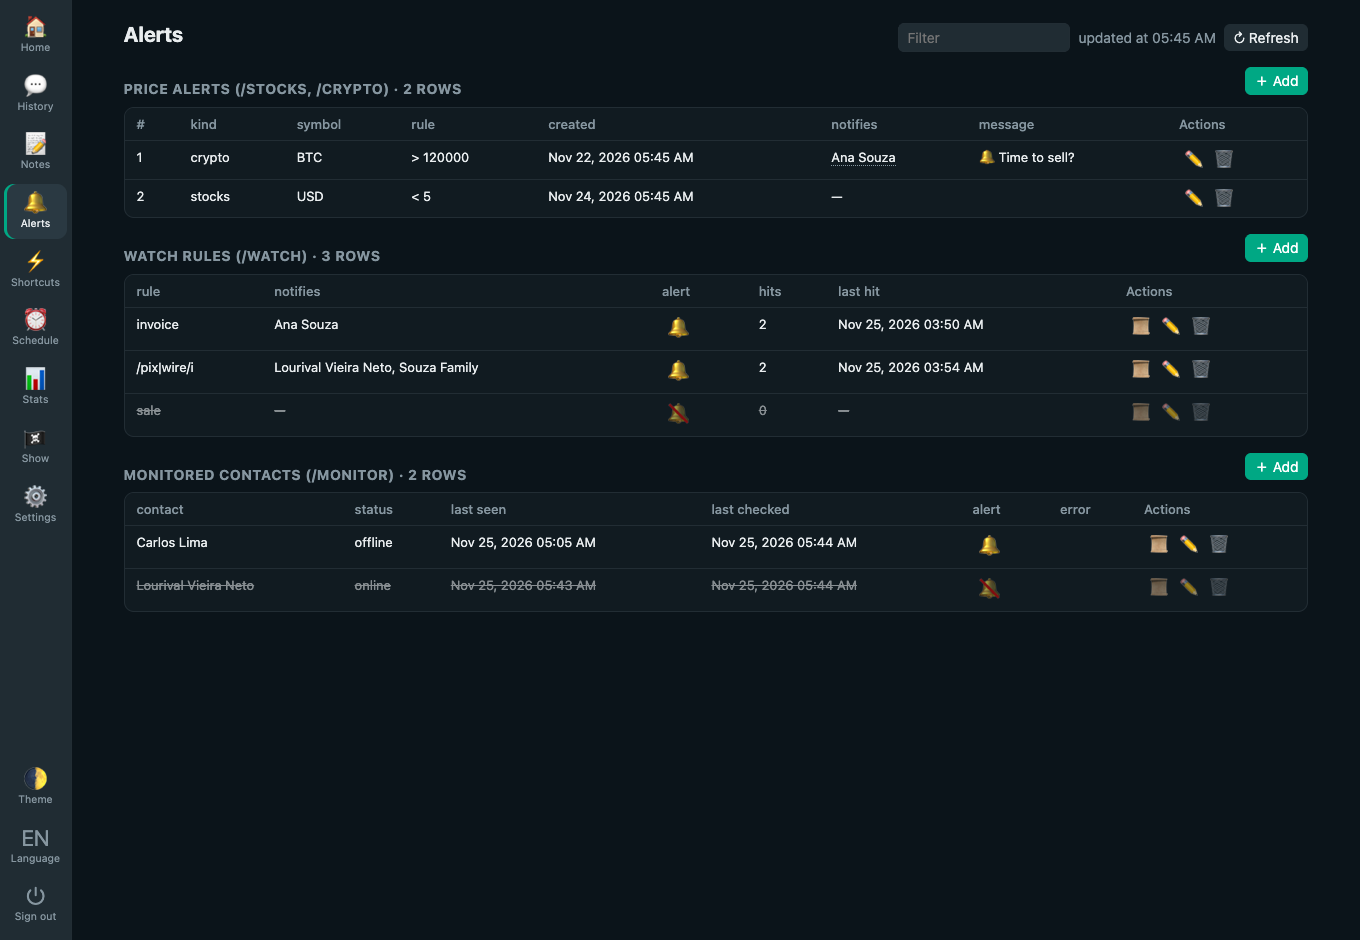
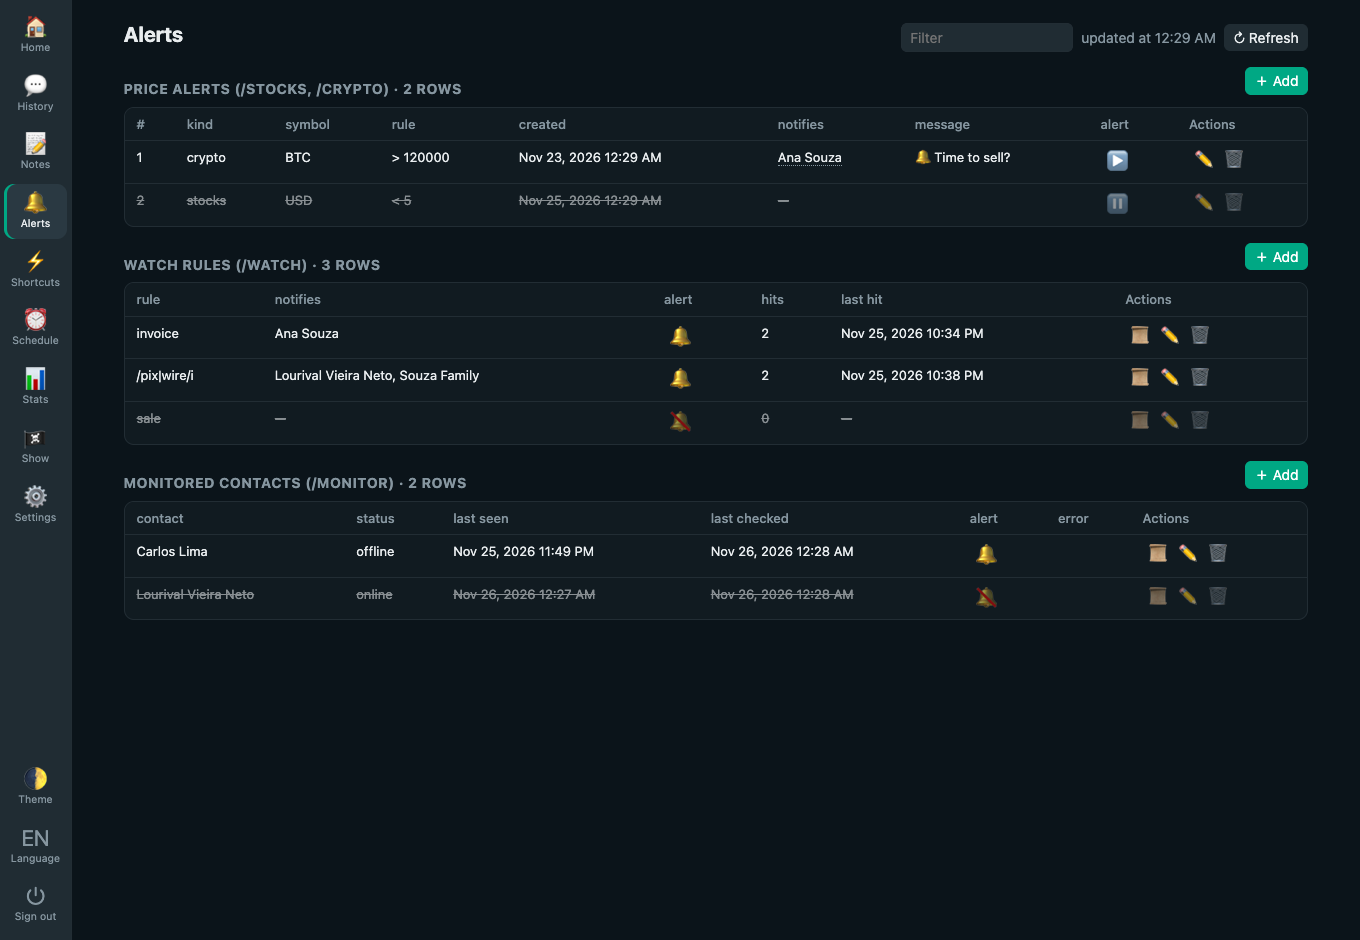
alerts: /stocks and /crypto -alert -pause|-resume, and ▶/⏸ in Web > Alerts
A paused alert stays in the list (⏸ pausado) but out of the check until -resume; in the web the
alert column toggles it and the row is struck through, like the schedule. Editing an alert in
the web keeps its pause (the edit is made again through the command).

diff --git a/src/web/manage.js b/src/web/manage.js
@@ -128,7 +128,7 @@ async function setPriceRecipients(id, people) {
 }
 
 // Changes an alert by making it again through the command (same checks: supported symbol, the price, "already met"),
-// keeping where it notifies and when it was created; if the new rule is refused, the old one comes back
+// keeping where it notifies, when it was created and the pause; if the new rule is refused, the old one comes back
 async function editPrice(body) {
     const old = await dbGet('SELECT * FROM price_alerts WHERE id = ?', [Number(body.id)]);
     if (!old) throw new ManageError('alert: not found');
@@ -136,14 +136,15 @@ async function editPrice(body) {
     const people = readRecipients(body.recipients);
     const rule = str(body.rule, 'rule', { max: 80 });
     const message = str(body.message, 'message', { max: 300, required: false }).replace(/\s+/g, ' ');
-    const columns = ['id', 'kind', 'symbol', 'op', 'target', 'price_at_creation', 'created_at', 'dest_id', 'dest_name', 'dest_is_group', 'dest_email', 'recipients', 'message'];
+    const columns = ['id', 'kind', 'symbol', 'op', 'target', 'price_at_creation', 'created_at', 'dest_id', 'dest_name', 'dest_is_group', 'dest_email', 'recipients', 'message', 'paused'];
     await dbRun('DELETE FROM price_alerts WHERE id = ?', [old.id]);
     const replies = [];
     await priceHandleAlert(kindKey, { msg: silentMsg(replies), args: `-alert ${rule}${message ? ` -msg ${message}` : ''}`, admin: true });
     const fresh = await dbGet('SELECT id FROM price_alerts WHERE kind = ? ORDER BY id DESC LIMIT 1', [kindKey]);
     if (fresh) {
-        await dbRun('UPDATE price_alerts SET created_at = ?, dest_id = ?, dest_name = ?, dest_is_group = ?, dest_email = ?, recipients = ? WHERE id = ?',
-            [old.created_at, old.dest_id, old.dest_name, old.dest_is_group, old.dest_email, old.recipients, fresh.id]);
+        // a paused alert stays paused after the edit
+        await dbRun('UPDATE price_alerts SET created_at = ?, dest_id = ?, dest_name = ?, dest_is_group = ?, dest_email = ?, recipients = ?, paused = ? WHERE id = ?',
+            [old.created_at, old.dest_id, old.dest_name, old.dest_is_group, old.dest_email, old.recipients, old.paused ?? 0, fresh.id]);
         if (people) await setPriceRecipients(fresh.id, people);
         return { ok: true, message: replies.join('\n') };
     }
@@ -362,6 +363,14 @@ async function deleteSchedule(body) {
     return { ok: true };
 }
 
+// ▶/⏸ of a price alert: the same as /stocks or /crypto -alert -pause / -resume
+async function pausePrice(body) {
+    const row = await dbGet('SELECT id FROM price_alerts WHERE id = ?', [Number(body.id)]);
+    if (!row) throw new ManageError('price: not found');
+    await dbRun('UPDATE price_alerts SET paused = 1 - COALESCE(paused, 0) WHERE id = ?', [row.id]);
+    return { ok: true };
+}
+
 async function pauseSchedule(body) {
     const row = await dbGet('SELECT id FROM schedules WHERE id = ?', [Number(body.id)]);
     if (!row) throw new ManageError('schedule: not found');
@@ -420,7 +429,7 @@ async function cleanCachePicked(body) {
 
 const HANDLERS = {
     alias: { add: saveAlias, edit: saveAlias, delete: deleteAlias },
-    price: { add: addPrice, edit: editPrice, delete: deletePrice },
+    price: { add: addPrice, edit: editPrice, delete: deletePrice, toggle: pausePrice },
     tag: { add: async (body, token) => noteResult(await webNotes.addTag(token, body)), edit: async (body, token) => noteResult(await webNotes.editTag(token, body)), copy: async (body, token) => noteResult(await webNotes.copyTag(token, body)), move: async (body, token) => noteResult(await webNotes.moveTag(token, body)), delete: async (body, token) => noteResult(await webNotes.deleteTag(token, body)) },
     note: { add: async (body, token) => noteResult(await webNotes.addNote(token, body)), edit: async (body, token) => noteResult(await webNotes.updateNote(token, body)), move: async (body, token) => noteResult(await webNotes.moveNote(token, body)), copy: async (body, token) => noteResult(await webNotes.copyNote(token, body)), delete: async (body, token) => noteResult(await webNotes.deleteNote(token, body.id)) },
     watch: { add: saveWatch, edit: saveWatch, delete: deleteWatch, toggle: toggleWatch },

diff --git a/src/priceAlerts.js b/src/priceAlerts.js
@@ -151,6 +151,30 @@ async function priceHandleAlert(kind, { msg, args, admin }) {
 
     const alerts = await listAlerts(kind);
 
+    // -pause / -resume <no....|all>: the same numbers as -rm; a paused alert stays in the list, out of the check
+    const pausing = opts.given.has('pause');
+    if (pausing || opts.given.has('resume')) {
+        const partsAlt = [pausing ? opts.opt.pause : opts.opt.resume, ...opts.argv].join(' ').toLowerCase()
+            .split(/[\s,]+/).filter(Boolean);
+        const numbers = partsAlt.includes('all') ? alerts.map((_, i) => String(i + 1)) : [...new Set(partsAlt)].sort((a, b) => a - b);
+        const missing = numbers.filter(n => !/^\d+$/.test(n) || !alerts[Number(n) - 1]);
+        if (!numbers.length || missing.length) {
+            await msg.reply(missing.length > 1
+                ? t('alerts.notFoundManyKept', { list: missing.join(', '), cmd: type.cmd })
+                : t('alerts.notFoundOne', { n: missing[0] ?? '?', cmd: type.cmd }));
+            return;
+        }
+        const changed = numbers.map(n => alerts[Number(n) - 1]).filter(a => Boolean(a.paused) !== pausing);
+        if (!changed.length) {
+            await msg.reply(t('alerts.nothingToChange', { which: t(pausing ? 'alerts.allPaused' : 'alerts.noneToResume') }));
+            return;
+        }
+        for (const a of changed) await dbRun('UPDATE price_alerts SET paused = ? WHERE id = ?', [pausing ? 1 : 0, a.id]);
+        const list = changed.map(a => `${alerts.indexOf(a) + 1}. ${describeAlert(kind, a, { withDestinations: false })}`).join('\n');
+        await msg.reply(t(pausing ? 'alerts.pausedDone' : 'alerts.resumedDone', { n: changed.length, list }));
+        return;
+    }
+
     // -rm <no....|all>: -rm 2, -rm 1 2 3 or -rm 1,3 (the list numbers). Does any not exist? None is removed,
     // because removing halfway is worse than not removing
     if (opts.given.has('rm')) {
@@ -206,7 +230,7 @@ async function priceHandleAlert(kind, { msg, args, admin }) {
             return;
         }
 
-        const linesAlt = alerts.map((a, i) => t('alerts.listItem', { n: i + 1, alert: describeAlert(kind, a, { withDestinations: false }), details: detailsAlert(kind, a), date: formatDataShort(a.created_at) }));
+        const linesAlt = alerts.map((a, i) => t('alerts.listItem', { n: i + 1, alert: describeAlert(kind, a, { withDestinations: false }) + (a.paused ? t('alerts.paused') : ''), details: detailsAlert(kind, a), date: formatDataShort(a.created_at) }));
         await msg.reply(t('alerts.list', {
             cmd: type.cmd,
             items: linesAlt.join('\n\n'),
@@ -298,7 +322,8 @@ async function priceCheckAlerts({ force = false } = {}) {
 
     try {
         await dbReady;
-        const alerts = await dbAll('SELECT * FROM price_alerts ORDER BY id');
+        // A paused alert (-alert -pause) is out of the check until -resume
+        const alerts = await dbAll('SELECT * FROM price_alerts WHERE COALESCE(paused, 0) = 0 ORDER BY id');
 
         for (const [kind, type] of due) {
             const typeAlt = alerts.filter(a => a.kind === kind);

diff --git a/tests/web.test.js b/tests/web.test.js
@@ -1111,6 +1111,24 @@ describe('alerts and notes: editing, deleting and playing', () => {
         assert.deepEqual([kept.id, kept.op, kept.target, kept.message, kept.dest_name], [row.id, '<', 5, 'caiu', 'Fulano']);
         assert.equal((await manage({ section: 'price', op: 'edit', id: 99999, rule: 'USD > 9' })).status, 400);
 
+        // ▶/⏸: the same pause as -alert -pause / -resume
+        assert.equal((await manage({ section: 'price', op: 'toggle', id: row.id })).status, 200);
+        assert.equal((await bot.dbGet('SELECT paused FROM price_alerts WHERE id = ?', [row.id])).paused, 1);
+        let cells = (await (await get('/api/lists/alerts', cookie)).json()).sections[0].rows[0];
+        assert.deepEqual(cells.at(-1), { bell: false, text: 'off', icon: '⏸', play: true });
+        // an edit (made again through the command) and a refused edit both keep the pause
+        const pausedEdit = await manage({ section: 'price', op: 'edit', id: row.id, rule: 'USD < 5.00', message: 'caiu' });
+        assert.equal(pausedEdit.status, 200, JSON.stringify(pausedEdit.body));
+        const afterEdit = await bot.dbGet('SELECT id, paused, target FROM price_alerts');
+        assert.deepEqual([afterEdit.paused, afterEdit.target], [1, 5]);
+        assert.equal((await manage({ section: 'price', op: 'edit', id: afterEdit.id, rule: 'USD < 5.50', message: 'x' })).status, 400);
+        assert.equal((await bot.dbGet('SELECT paused FROM price_alerts')).paused, 1);
+        row.id = afterEdit.id;
+        assert.equal((await manage({ section: 'price', op: 'toggle', id: row.id })).status, 200);
+        cells = (await (await get('/api/lists/alerts', cookie)).json()).sections[0].rows[0];
+        assert.equal(cells.at(-1).icon, '▶');
+        assert.equal((await manage({ section: 'price', op: 'toggle', id: 99999 })).status, 400);
+
         const section = (await (await get('/api/lists/alerts', cookie)).json()).sections[0];
         assert.equal(section.manage.canEdit, true);
         assert.deepEqual(section.values[0], { rule: 'USD < 5', message: 'caiu', recipients: [{ id: 'x@c.us', name: 'Fulano', group: false }] });

diff --git a/tests/quotes.test.js b/tests/quotes.test.js
@@ -270,6 +270,30 @@ describe('alertas de preço (-alert)', () => {
         assert.equal(bot.client.sent.length, beforeAlt + 1);
     });
 
+    test('-alert -pause e -resume: o pausado fica na lista com ⏸ e não dispara até ser retomado', async () => {
+        await bot.replyAlt('/crypto -alert BTC > 96000');
+        await bot.replyAlt('/crypto -alert ETH < 1000');
+        const [paused] = await bot.replyAlt('/crypto -alert -pause 1');
+        assert.match(paused, /^⏸ \*Pausado\* \(1\)\n1\. ₿ BTC\/USDT acima de \*\$96,000\.00\*\n💡 \*Dicas\*\n-alert -resume <nº\.\.\.\|all> retoma$/);
+        assert.match((await bot.replyAlt('/crypto -alert'))[0], /1\. ₿ BTC\/USDT acima de \*\$96,000\.00\* ⏸ _pausado_/);
+        assert.deepEqual(await bot.replyAlt('/crypto -alert -pa 1'), ['ℹ Nada a mudar: já estão todos pausados.']);
+        assert.match((await bot.replyAlt('/crypto -alert -pause 9'))[0], /❌ Alerta nº 9 não existe/);
+
+        // paused: the price crossed, but nothing goes out and the alert stays
+        prices.BTC = 97000;
+        const beforeAlt = bot.client.sent.length;
+        await priceCheckAlerts({ force: true });
+        assert.equal(bot.client.sent.length, beforeAlt);
+        assert.equal((await bot.dbGet('SELECT COUNT(*) AS n FROM price_alerts')).n, 2);
+
+        // resumed (all: only the paused one changes): fires on the next check
+        assert.match((await bot.replyAlt('/crypto -alert -resume all'))[0], /^▶ \*Retomado\* \(1\)\n1\. ₿ BTC/);
+        assert.deepEqual(await bot.replyAlt('/crypto -alert -re all'), ['ℹ Nada a mudar: nenhum estava pausado.']);
+        await priceCheckAlerts({ force: true });
+        assert.match(bot.client.sent.at(-1).content, /ALERTA DE PREÇO[\s\S]*BTC\/USDT/);
+        assert.equal((await bot.dbGet('SELECT COUNT(*) AS n FROM price_alerts')).n, 1);
+    });
+
     test('/crypto -alert: abaixo de, em dólar', async () => {
         assert.match((await bot.replyAlt('/crypto -alert BTC < 90000'))[0], /₿ BTC\/USDT abaixo de \*\$90,000\.00\*/);
         prices.BTC = 89000;

diff --git a/src/commands/definitions/stocks.js b/src/commands/definitions/stocks.js
@@ -3,11 +3,11 @@
  */
 
 const { ADMIN, USER } = require('../../roles').ROLES;
-const { OPTION_ALERT_MSG, OPTION_ALERT_RM, OPTION_ALERT_TO } = require('./_options');
+const { OPTION_ALERT_MSG, OPTION_ALERT_PAUSE, OPTION_ALERT_RESUME, OPTION_ALERT_RM, OPTION_ALERT_TO } = require('./_options');
 
 module.exports = {
     cmd: '/stocks',
-    usage: '/stocks [OPTION] [TICKER...]  or  /stocks [TICKER] -alert [rule] [-to <target>]... [-msg <text>]  or  /stocks -alert -rm <num...|all>',
+    usage: '/stocks [OPTION] [TICKER...]  or  /stocks [TICKER] -alert [rule] [-to <target>]... [-msg <text>]  or  /stocks -alert -rm|-pause|-resume <num...|all>',
     aliases: [],
     summary: 'Quotes of currencies, stocks, ETFs and indexes',
     help: 'Market quotes in one place: the dollar, euro, pound and USDT against the real (USD, EUR, GBP, USDT) and stocks, ETFs and indexes (Yahoo Finance), with the change since the previous close, open, high and low, and, for stocks, volume and the 52-week range. Without symbols, the enabled ones (setting stocks.symbols: USD, EUR, USDT and MSTR by default); with symbols, only those (e.g. /stocks usd MSTR PETR4.SA). The ticker is the Yahoo Finance one: MSTR, NVDA, PETR4.SA (B3), BRK-B, ^GSPC (S&P 500). For crypto, /crypto.',
@@ -42,6 +42,8 @@ module.exports = {
         { opts: ['list', 'l'], values: [], desc: 'Lists everything it supports: the enabled symbols, the currencies (✅ the enabled ones) and the kinds of ticker, with examples.' },
         OPTION_ALERT_MSG,
         OPTION_ALERT_RM,
+        OPTION_ALERT_PAUSE,
+        OPTION_ALERT_RESUME,
         OPTION_ALERT_TO,
         {
             opts: ['tts'],

diff --git a/src/locales/pt_BR/info.js b/src/locales/pt_BR/info.js
@@ -76,8 +76,15 @@ module.exports = {
     'alerts.msgOnlyCreate': '❌ O -msg só vale ao criar um alerta: {cmd} -alert {example} -msg <texto>',
     'alerts.msgEmpty': '❌ Informe o texto do -msg: {cmd} -alert {example} -msg <texto>',
     'alerts.none': '🔔 Nenhum alerta no {cmd}.\n💡 _Crie com {cmd} -alert {example}_',
+    'alerts.paused': ' ⏸ _pausado_',
+    'alerts.pausedDone': '⏸ *Pausado* ({n})\n{list}\n💡 *Dicas*\n-alert -resume <nº...|all> retoma',
+    'alerts.resumedDone': '▶ *Retomado* ({n})\n{list}',
+    'alerts.nothingToChange': 'ℹ Nada a mudar: {which}.',
+    'alerts.allPaused': 'já estão todos pausados',
+    'alerts.noneToResume': 'nenhum estava pausado',
+    'alerts.notFoundManyKept': '❌ Alertas nº {list} não existem. Nada mudou; veja a lista com {cmd} -alert',
     'alerts.listItem': '{n}. {alert}{details}\n   🗓 {date}',
-    'alerts.list': '🔔 *ALERTAS DE PREÇO* _({cmd} · a cada {every})_\n\n{items}\n\n💡 _-alert -rm <nº...|all> remove_',
+    'alerts.list': '🔔 *ALERTAS DE PREÇO* _({cmd} · a cada {every})_\n\n{items}\n\n💡 *Dicas*\n-alert -rm <nº...|all> remove\n-alert -pause <nº...|all> pausa\n-alert -resume <nº...|all> retoma',
     'alerts.invalidRule': '❌ Regra inválida: "{rule}"\n💡 _Formato: {cmd} -alert {example} (use > ou <; sem separador de milhar)_',
     'alerts.unsupported': '❌ Moeda não suportada: {sym}\n💡 _Veja as suportadas com {cmd} -l_',
     'alerts.limit': '❌ Limite de {max} alertas atingido (setting {setting}). Remova algum antes.',

diff --git a/src/locales/en_US/info.js b/src/locales/en_US/info.js
@@ -76,8 +76,15 @@ module.exports = {
     'alerts.msgOnlyCreate': '❌ -msg only works when creating an alert: {cmd} -alert {example} -msg <text>',
     'alerts.msgEmpty': '❌ Provide the -msg text: {cmd} -alert {example} -msg <text>',
     'alerts.none': '🔔 No alerts in {cmd}.\n💡 _Create one with {cmd} -alert {example}_',
+    'alerts.paused': ' ⏸ _paused_',
+    'alerts.pausedDone': '⏸ *Paused* ({n})\n{list}\n💡 *Tips*\n-alert -resume <num...|all> resumes',
+    'alerts.resumedDone': '▶ *Resumed* ({n})\n{list}',
+    'alerts.nothingToChange': 'ℹ Nothing to change: {which}.',
+    'alerts.allPaused': 'they are all paused already',
+    'alerts.noneToResume': 'none was paused',
+    'alerts.notFoundManyKept': "❌ Alerts #{list} don't exist. Nothing changed; see the list with {cmd} -alert",
     'alerts.listItem': '{n}. {alert}{details}\n   🗓 {date}',
-    'alerts.list': '🔔 *PRICE ALERTS* _({cmd} · every {every})_\n\n{items}\n\n💡 _-alert -rm <num...|all> removes_',
+    'alerts.list': '🔔 *PRICE ALERTS* _({cmd} · every {every})_\n\n{items}\n\n💡 *Tips*\n-alert -rm <num...|all> removes\n-alert -pause <num...|all> pauses\n-alert -resume <num...|all> resumes',
     'alerts.invalidRule': '❌ Invalid rule: "{rule}"\n💡 _Format: {cmd} -alert {example} (use > or <; no thousands separator)_',
     'alerts.unsupported': '❌ Unsupported currency: {sym}\n💡 _See the supported ones with {cmd} -l_',
     'alerts.limit': '❌ Limit of {max} alerts reached (setting {setting}). Remove one first.',

diff --git a/scripts/web-screenshots.js b/scripts/web-screenshots.js
@@ -178,7 +178,8 @@ async function seed() {
         ['/stash.view', 'Abre a tag protegida #cofre', '/notes -v -lock $1 #cofre', 1, 1], ['/rap', 'Texto respondido, falado com uma batida', '/tts -l -v tugão -sp 65 -b 95 $@', 0, 0]
     ]) await bot.dbRun('INSERT INTO command_aliases (name, description, command, quiet, owner_only) VALUES (?, ?, ?, ?, ?)', [name, description, command, quiet, owner]);
     await bot.dbRun("INSERT INTO price_alerts (kind, symbol, op, target, created_at, dest_id, dest_name, message) VALUES ('crypto', 'BTC', '>', 120000, ?, '5521999990001@c.us', 'Ana Souza', 'Hora de vender?')", [now - 3 * DAY]);
-    await bot.dbRun("INSERT INTO price_alerts (kind, symbol, op, target, created_at) VALUES ('acao', 'USD', '<', 5, ?)", [now - DAY]);
+    // paused (-alert -pause): the ⏸ and the struck-through row
+    await bot.dbRun("INSERT INTO price_alerts (kind, symbol, op, target, created_at, paused) VALUES ('acao', 'USD', '<', 5, ?, 1)", [now - DAY]);
     await bot.setSetting('watch.rules', ['boleto', '/pix|ted/i', 'promoção']);
     await bot.dbRun("INSERT INTO monitor_contacts (contact_id, contact_name, created_at, last_status, last_seen, last_checked_at, alert_enabled) VALUES ('5521999990002@c.us', 'Carlos Lima', 1, 'offline', ?, ?, 1)", [Math.floor((now - 40 * MIN) / 1000), now - MIN]); // (the monitor keeps the last seen in seconds)
     await bot.dbRun("INSERT INTO watch_destinations (rule, dest_id, dest_name, dest_is_group) VALUES ('boleto', '5521999990001@c.us', 'Ana Souza', 0)");

diff --git a/src/commands/definitions/crypto.js b/src/commands/definitions/crypto.js
@@ -3,11 +3,11 @@
  */
 
 const { ADMIN, USER } = require('../../roles').ROLES;
-const { OPTION_ALERT_MSG, OPTION_ALERT_RM, OPTION_ALERT_TO } = require('./_options');
+const { OPTION_ALERT_MSG, OPTION_ALERT_PAUSE, OPTION_ALERT_RESUME, OPTION_ALERT_RM, OPTION_ALERT_TO } = require('./_options');
 
 module.exports = {
     cmd: '/crypto',
-    usage: '/crypto [OPTION] [CURRENCY...]  or  /crypto [CURRENCY] -alert [rule] [-to <target>]... [-msg <text>]  or  /crypto -alert -rm <num...|all>',
+    usage: '/crypto [OPTION] [CURRENCY...]  or  /crypto [CURRENCY] -alert [rule] [-to <target>]... [-msg <text>]  or  /crypto -alert -rm|-pause|-resume <num...|all>',
     aliases: [],
     summary: 'Price and 24 h change of cryptocurrencies',
     help: 'Current price and 24 h change of the enabled cryptocurrencies (Binance) or only the requested ones (e.g. /crypto BTC ETH).',
@@ -41,6 +41,8 @@ module.exports = {
         { opts: ['list', 'l'], values: [], desc: 'Lists the supported coins (* = enabled).' },
         OPTION_ALERT_MSG,
         OPTION_ALERT_RM,
+        OPTION_ALERT_PAUSE,
+        OPTION_ALERT_RESUME,
         OPTION_ALERT_TO,
         {
             opts: ['tts'],

diff --git a/src/web/lists.js b/src/web/lists.js
@@ -76,12 +76,12 @@ async function alerts() {
     return {
         sections: [
             {
-                title: 'price', columns: ['#', 'kind', 'symbol', 'rule', 'created', 'notifies', 'message'],
+                title: 'price', columns: ['#', 'kind', 'symbol', 'rule', 'created', 'notifies', 'message', 'alert'],
                 rows: await Promise.all(price.map(async a => {
                     const setting = a.kind === 'acao' ? 'stocks' : 'crypto';
                     return [a.id, setting, a.symbol, `${a.op} ${priceText(a.target)}`, { date: a.created_at },
                         await recipientCell(a, { id: 'dest_id', name: 'dest_name', email: 'dest_email', group: 'dest_is_group' }),
-                        a.message ? `${getSetting(`${setting}.alert.msgPrepend`)}${a.message}` : ''];
+                        a.message ? `${getSetting(`${setting}.alert.msgPrepend`)}${a.message}` : '', bell(!a.paused, PLAY)];
                 })),
                 ids: price.map(a => a.id), values: price.map(a => ({ rule: `${a.symbol} ${a.op} ${priceText(a.target)}`, message: a.message ?? '', recipients: peopleOf(a) })),
                 manage: {

diff --git a/src/commands/definitions/_options.js b/src/commands/definitions/_options.js
@@ -17,6 +17,22 @@ const OPTION_ALERT_RM = {
     desc: 'Removes alert #N from the list, several at once (-rm 1 2 3 or -rm 1,2,3), or all (with -alert). If any # does not exist, none is removed.'
 };
 
+const OPTION_ALERT_PAUSE = {
+    opts: ['pause', 'pa'],
+    values: ['<#...|all>'],
+    desc: 'Pauses alert #N, several (-pause 1 3 or 1,3) or all (with -alert): it stays in the list, but is not checked until -resume. If any # does not exist, none is paused.',
+    ex: ['-alert -pause 2'],
+    cron: false
+};
+
+const OPTION_ALERT_RESUME = {
+    opts: ['resume', 're'],
+    values: ['<#...|all>'],
+    desc: 'Resumes paused alerts (one, several or all, with -alert). If the price already crossed the value while paused, it notifies on the next check.',
+    ex: ['-alert -resume all'],
+    cron: false
+};
+
 const OPTION_ALERT_TO = {
     opts: ['to'],
     values: ['<destination>'],
@@ -58,6 +74,8 @@ module.exports = {
     optionStatus,
     OPTION_ALERT_MSG,
     OPTION_ALERT_RM,
+    OPTION_ALERT_PAUSE,
+    OPTION_ALERT_RESUME,
     OPTION_ALERT_TO,
     OPTION_VERBOSE_FFMPEG
 };

diff --git a/tests/i18n-info.test.js b/tests/i18n-info.test.js
@@ -59,7 +59,7 @@ describe('en_US: informação', () => {
         assert.match(created, /^🔔 \*Alert created\*\n/);
         assert.match(created, /\n   📨 your private chat\n💰 Now: R\$ 5\.2000\n💡 _Checked every \d+ minutes?\._$/);
 
-        assert.match((await bot.replyAlt('/stocks -alert'))[0], /^🔔 \*PRICE ALERTS\* _\(\/stocks · every \d+ minutes?\)_\n\n1\. [^]*💡 _-alert -rm <num\.\.\.\|all> removes_$/);
+        assert.match((await bot.replyAlt('/stocks -alert'))[0], /^🔔 \*PRICE ALERTS\* _\(\/stocks · every \d+ minutes?\)_\n\n1\. [^]*💡 \*Tips\*\n-alert -rm <num\.\.\.\|all> removes\n-alert -pause <num\.\.\.\|all> pauses\n-alert -resume <num\.\.\.\|all> resumes$/);
         assert.equal((await bot.replyAlt('/stocks -alert -rm 9'))[0],
             "❌ Alert #9 doesn't exist. See the list with /stocks -alert");
         assert.match((await bot.replyAlt('/stocks -alert -rm 1'))[0], /^🗑 Alert removed: /);
